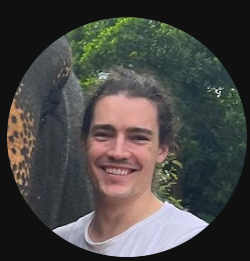
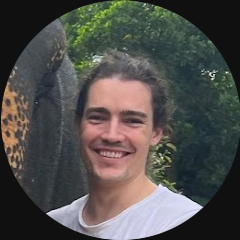
Fixed component height to prevent layout shift, updated image

diff --git a/pages/index.tsx b/pages/index.tsx
@@ -52,11 +52,11 @@ export default function Home() {
             <div className="my-4 text-general">
               Hey, I&apos;m Sean. A start-up focused software engineer.
             </div>
-            <div className="my-4 flex flex-row">
+            <div className="my-4 flex flex-row h-28">
               <Image
                 src={headshotImage}
-                width={108}
-                height={108}
+                width={112}
+                height={112}
                 alt="Sean Jaeger headshot photo"
               />
               <div className="flex flex-col justify-between py-2 px-3">
